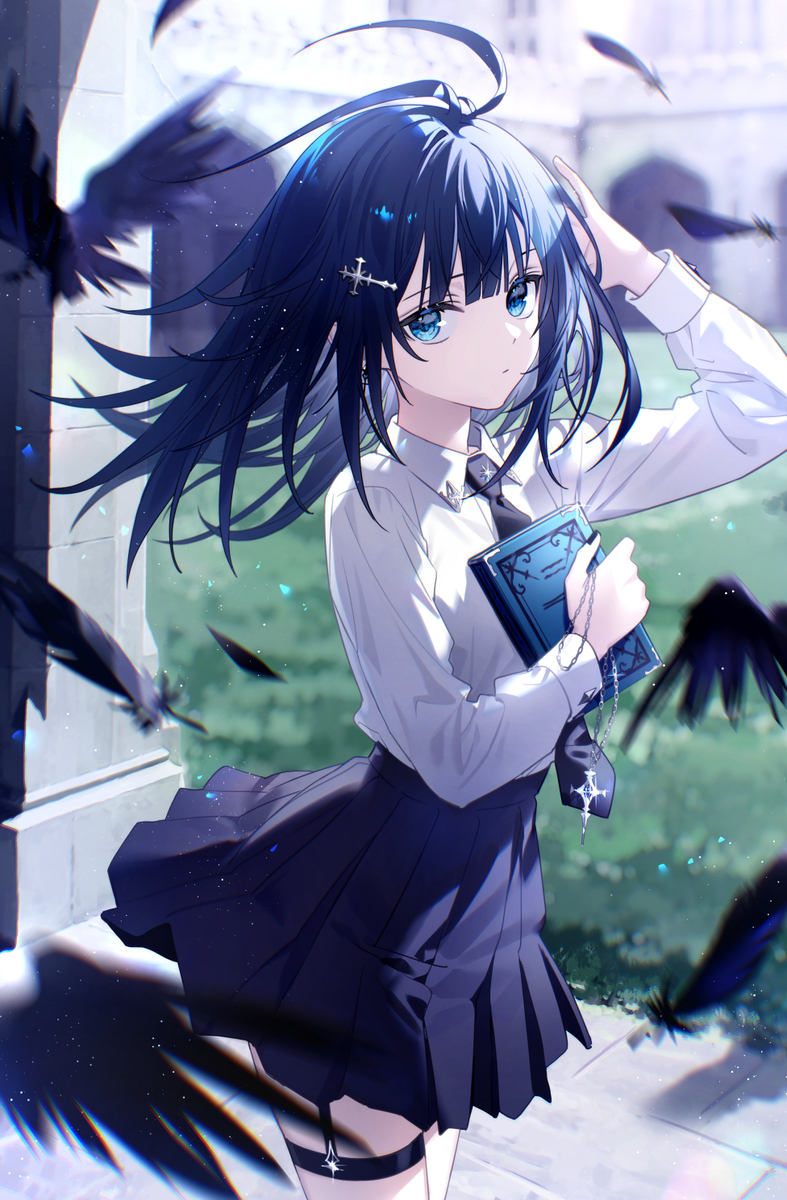
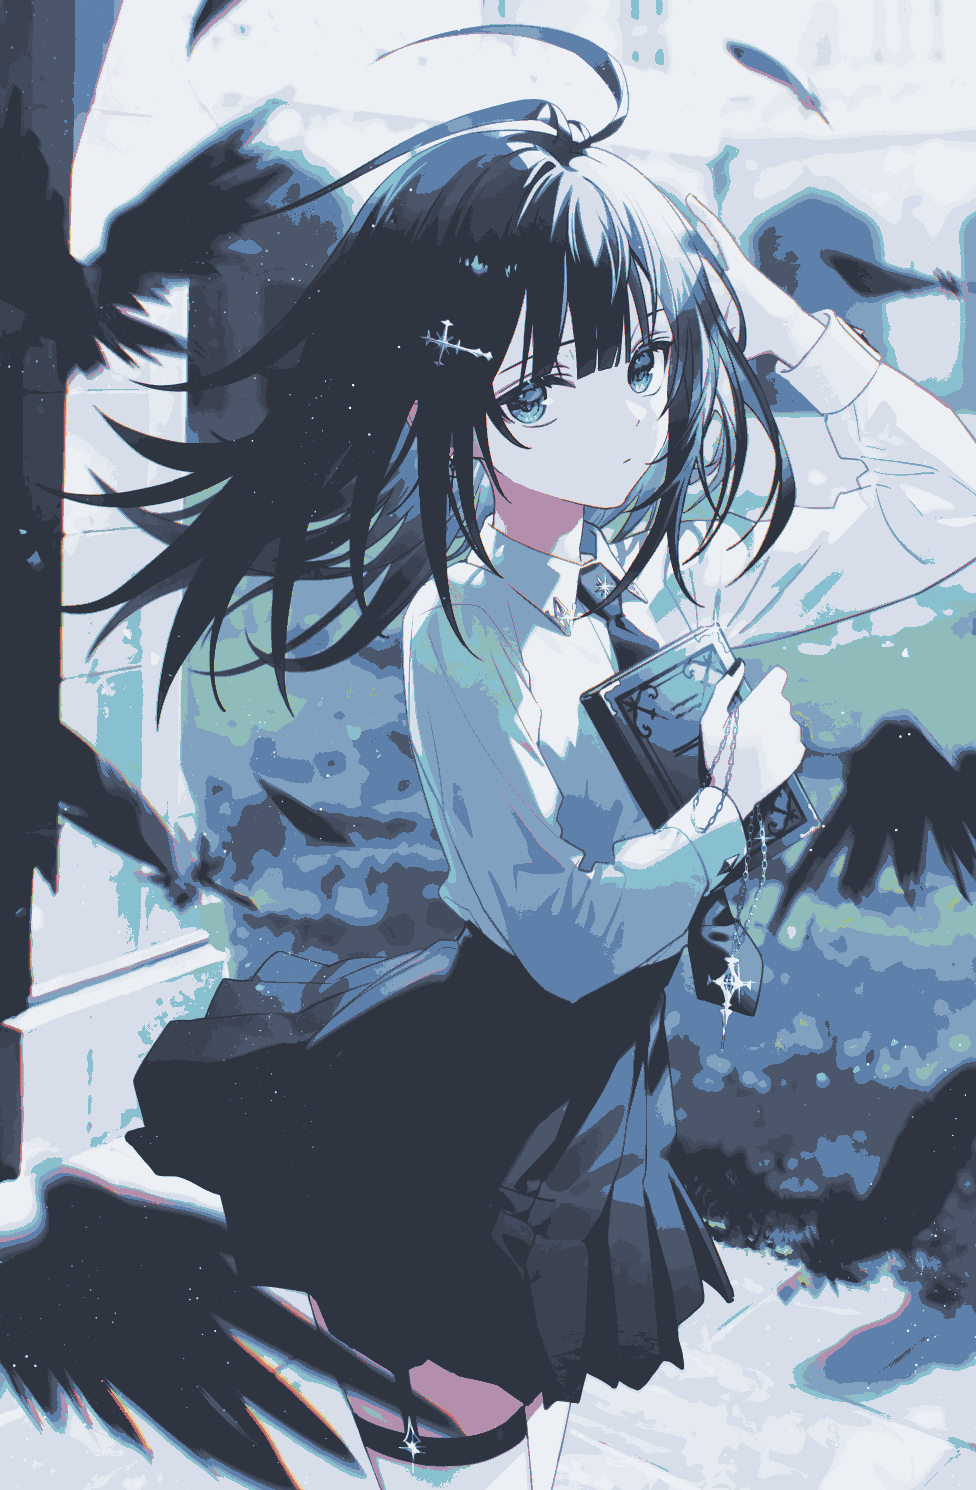
changed theme to nord

diff --git a/walker/.config/walker/themes/nord/style.css b/walker/.config/walker/themes/nord/style.css
@@ -1,0 +1,205 @@
+@define-color window_bg_color #2e3440;
+@define-color accent_bg_color #4c566a;
+@define-color error_bg_color #2e3440;
+@define-color input_bg_color #4c566a;
+
+@define-color theme_fg_color #ebcb8b;
+@define-color error_fg_color #bf616a;
+
+* {
+    all: unset;
+    font-family: "JetBrainsMonoNL Nerd Font SemiBold";
+}
+
+popover {
+  background: lighter(@window_bg_color);
+  border: 1px solid darker(@accent_bg_color);
+  border-radius: 18px;
+  padding: 10px;
+}
+
+.normal-icons {
+  -gtk-icon-size: 16px;
+}
+
+.large-icons {
+  -gtk-icon-size: 32px;
+}
+
+scrollbar {
+  opacity: 0;
+}
+
+.box-wrapper {
+  box-shadow:
+    0 19px 38px rgba(0, 0, 0, 0.3),
+    0 15px 12px rgba(0, 0, 0, 0.22);
+  background: @window_bg_color;
+  padding: 20px;
+  border-radius: 20px;
+  border: 1px solid darker(@accent_bg_color);
+}
+
+.preview-box,
+.elephant-hint,
+.placeholder {
+  color: @theme_fg_color;
+}
+
+.box {
+}
+
+.search-container {
+  border-radius: 10px;
+}
+
+.input placeholder {
+  opacity: 0.5;
+}
+
+.input selection {
+  background: @input_bg_color;
+}
+
+.input {
+  caret-color: @theme_fg_color;
+  background: lighter(@window_bg_color);
+  padding: 10px;
+  color: @theme_fg_color;
+}
+
+.input:focus,
+.input:active {
+}
+
+.content-container {
+}
+
+.placeholder {
+}
+
+.scroll {
+}
+
+.list {
+  color: @theme_fg_color;
+}
+
+child {
+}
+
+.item-box {
+  border-radius: 10px;
+  padding: 10px;
+}
+
+.item-quick-activation {
+  background: alpha(@accent_bg_color, 0.25);
+  border-radius: 5px;
+  padding: 10px;
+}
+
+/* child:hover .item-box, */
+child:selected .item-box {
+  background: alpha(@accent_bg_color, 0.25);
+}
+
+.item-text-box {
+}
+
+.item-subtext {
+  font-size: 12px;
+  opacity: 0.5;
+}
+
+.providerlist .item-subtext {
+  font-size: unset;
+  opacity: 0.75;
+}
+
+.item-image-text {
+  font-size: 28px;
+}
+
+.preview {
+  border: 1px solid alpha(@accent_bg_color, 0.25);
+  /* padding: 10px; */
+  border-radius: 10px;
+  color: @theme_fg_color;
+}
+
+.calc .item-text {
+  font-size: 24px;
+}
+
+.calc .item-subtext {
+}
+
+.symbols .item-image {
+  font-size: 24px;
+}
+
+.todo.done .item-text-box {
+  opacity: 0.25;
+}
+
+.todo.urgent {
+  font-size: 24px;
+}
+
+.todo.active {
+  font-weight: bold;
+}
+
+.bluetooth.disconnected {
+  opacity: 0.5;
+}
+
+.preview .large-icons {
+  -gtk-icon-size: 64px;
+}
+
+.keybinds {
+  padding-top: 10px;
+  border-top: 1px solid lighter(@window_bg_color);
+  font-size: 12px;
+  color: @theme_fg_color;
+}
+
+.global-keybinds {
+}
+
+.item-keybinds {
+}
+
+.keybind {
+}
+
+.keybind-button {
+  opacity: 0.5;
+}
+
+.keybind-button:hover {
+  opacity: 0.75;
+}
+
+.keybind-bind {
+  text-transform: lowercase;
+  opacity: 0.35;
+}
+
+.keybind-label {
+  padding: 2px 4px;
+  border-radius: 4px;
+  border: 1px solid @theme_fg_color;
+}
+
+.error {
+  padding: 10px;
+  background: @error_bg_color;
+  color: @error_fg_color;
+}
+
+:not(.calc).current {
+  font-style: italic;
+}

diff --git a/waybar/.config/waybar/style.css b/waybar/.config/waybar/style.css
@@ -5,7 +5,7 @@
 }
 
 window#waybar {
-    background-color: rgba(29, 32, 33, 0.9);
+    background-color: rgba(36, 41, 51, 0.9);
     /* border-bottom: 3px solid rgba(100, 114, 125, 0.5); */
     /* color: #1d2021; */
     transition-property: background-color;
@@ -64,11 +64,11 @@ button:hover {
 }
 
 #workspaces button:hover {
-    background: rgba(58, 64, 66, 0.5);
+    background: rgba(76, 86, 106, 0.5);
 }
 
 #workspaces button.focused {
-    background-color: #3a4042;
+    background-color: #4C566A;
     /* box-shadow: inset 0 -3px #ffffff; */
 }
 
@@ -128,31 +128,31 @@ button:hover {
 #clock {
     /* background-color: #64727D; */
     /* background-color: rgba(29, 32, 33, 0.2); */
+    color: #eceff4;
     margin-left: 30px; 
 }
 
 #battery {
     /* background-color: #ffffff; */
     /* background-color: rgba(29, 32, 33, 0.2); */
-    color: #cfcfcf;
+    color: #D8DEE9;
 }
 
 #battery.charging, #battery.plugged {
-    color: #26a65b;
+    color: #8fbcbb;
     /* background-color: #26A65B; */
 }
 
 @keyframes blink {
     to {
-        background-color: #ffffff;
-        color: #000000;
+        color: #bf616a;
     }
 }
 
 /* Using steps() instead of linear as a timing function to limit cpu usage */
 #battery.critical:not(.charging) {
-    /* background-color: #f53c3c; */
-    color: #f53c3c;
+    /* background-color: #2e3440; */
+    /* color: #bf616a; */
     animation-name: blink;
     animation-duration: 0.5s;
     animation-timing-function: steps(12);
@@ -185,12 +185,12 @@ label:focus {
 
 #cpu {
     /* background-color: #2ecc71; */
-    color: #2ecc71;
+    color: #A3BE8C;
 }
 
 #memory {
     /* background-color: #9b59b6; */
-    color: #9b59b6;
+    color: #B48EAD;
 }
 
 #disk {
@@ -203,7 +203,7 @@ label:focus {
 
 #network {
     /* background-color: #2980b9; */
-    color: #2980b9;
+    color: #5e81ac;
 }
 
 #network.disconnected {
@@ -223,7 +223,7 @@ label:focus {
 
 #wireplumber {
     /* ackground-color: #fff0f5; */
-    color: #f1c40f;
+    color: #EBCB8B;
 }
 
 #wireplumber.muted {
@@ -247,7 +247,7 @@ label:focus {
 
 #temperature {
     /* background-color: #f0932b; */
-    color: #f0932b;
+    color: #D08770;
 }
 
 #temperature.critical {

diff --git a/gtklock/.config/gtklock/style.css b/gtklock/.config/gtklock/style.css
@@ -6,10 +6,45 @@ window {
     background-color: black;
 }
 
+#input-field.is-visible {
+    /* This applies when the password IS shown (plain text) */
+    letter-spacing: 9px;
+}
+
 #window-box {
 	padding: 64px;
 	border: 1px solid black;
 	border-radius: 4px;
 	box-shadow: rgba(0, 0, 0, 0.5) 0px 4px 12px;
-	background-color: #1d2021;
+	background-color: #2e3440;
+}
+
+#unlock-button {
+    background-color: #5e81ac;
+    background-image: none;
+    color: white;
+    border-radius: 5px;
+    border: none;
+}
+
+#unlock-button:hover {
+    background-color: #81a1c1;
+}
+
+#unlock-button:active {
+    background-color: #8fbcbb;
+}
+
+#error-label {
+    color: #bf616a;
+}
+
+#clock-label,
+#date-label,
+#input-label,
+#warning-label,
+#error-label,
+#input-field,
+#unlock-button {
+    font-family: "JetBrainsMonoNL Nerd Font SemiBold"; 
 }
